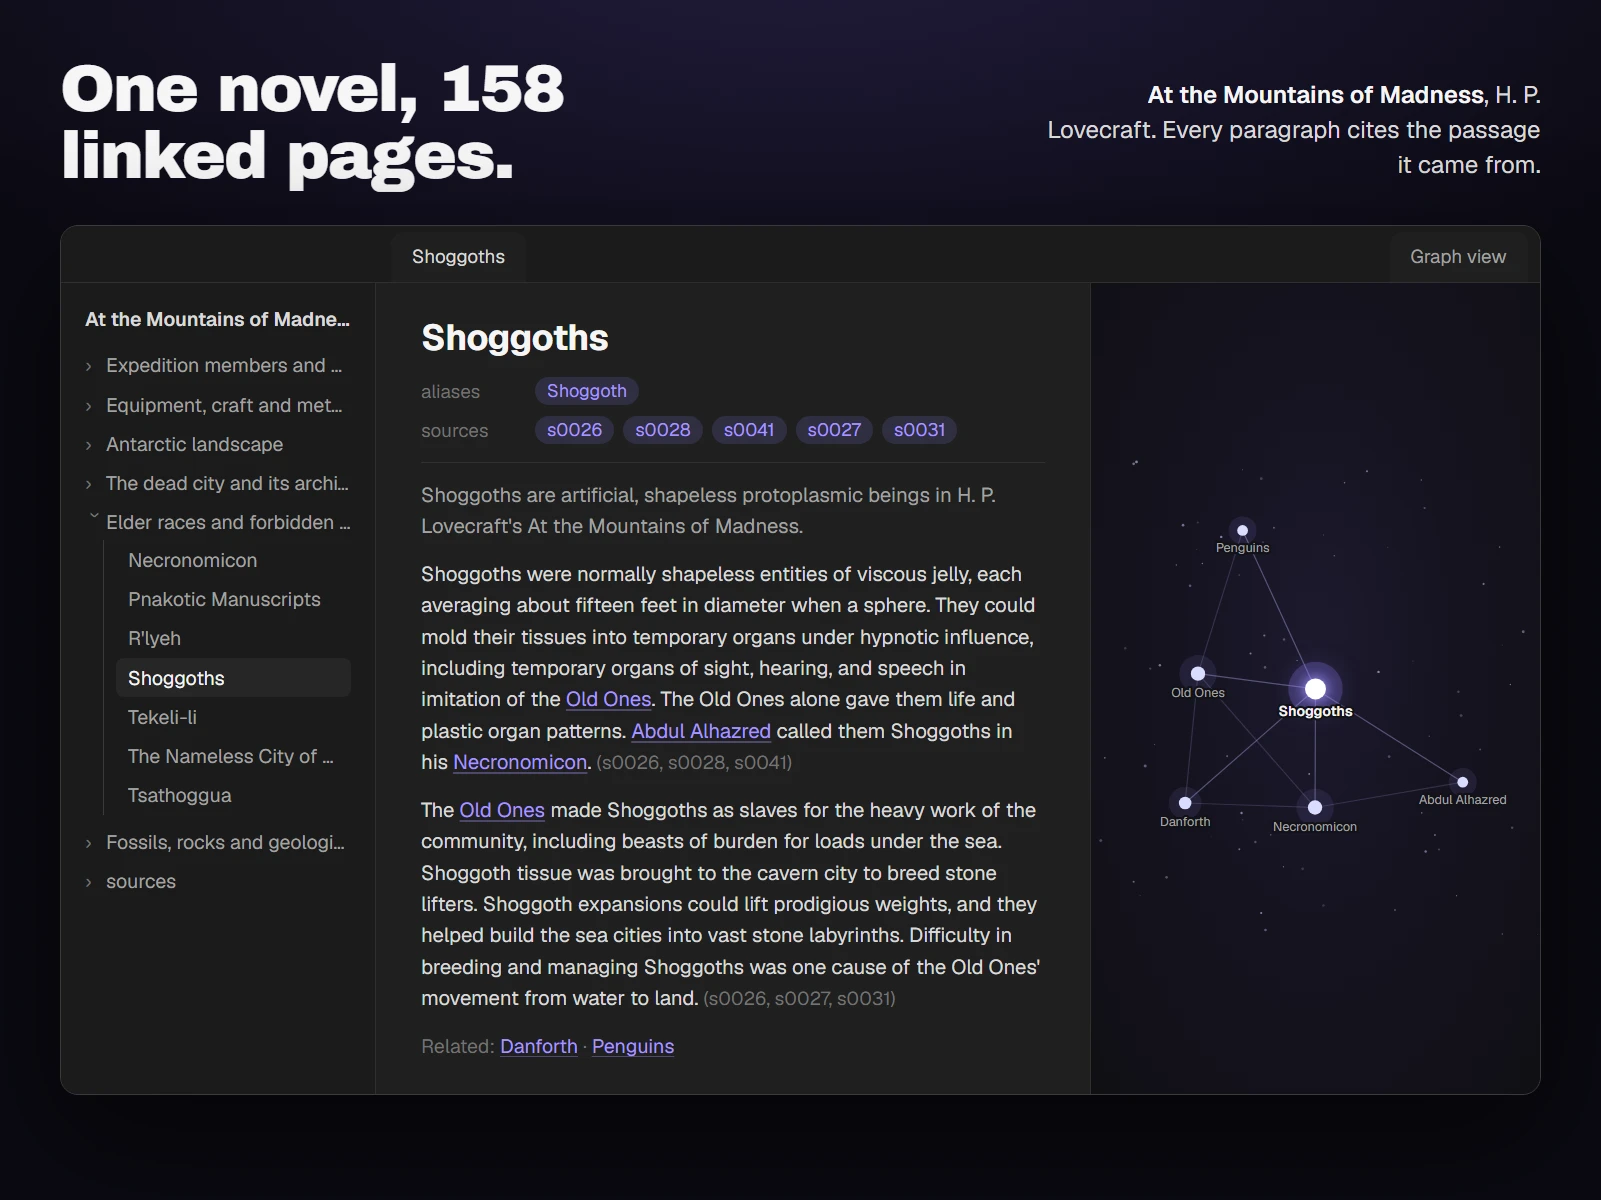
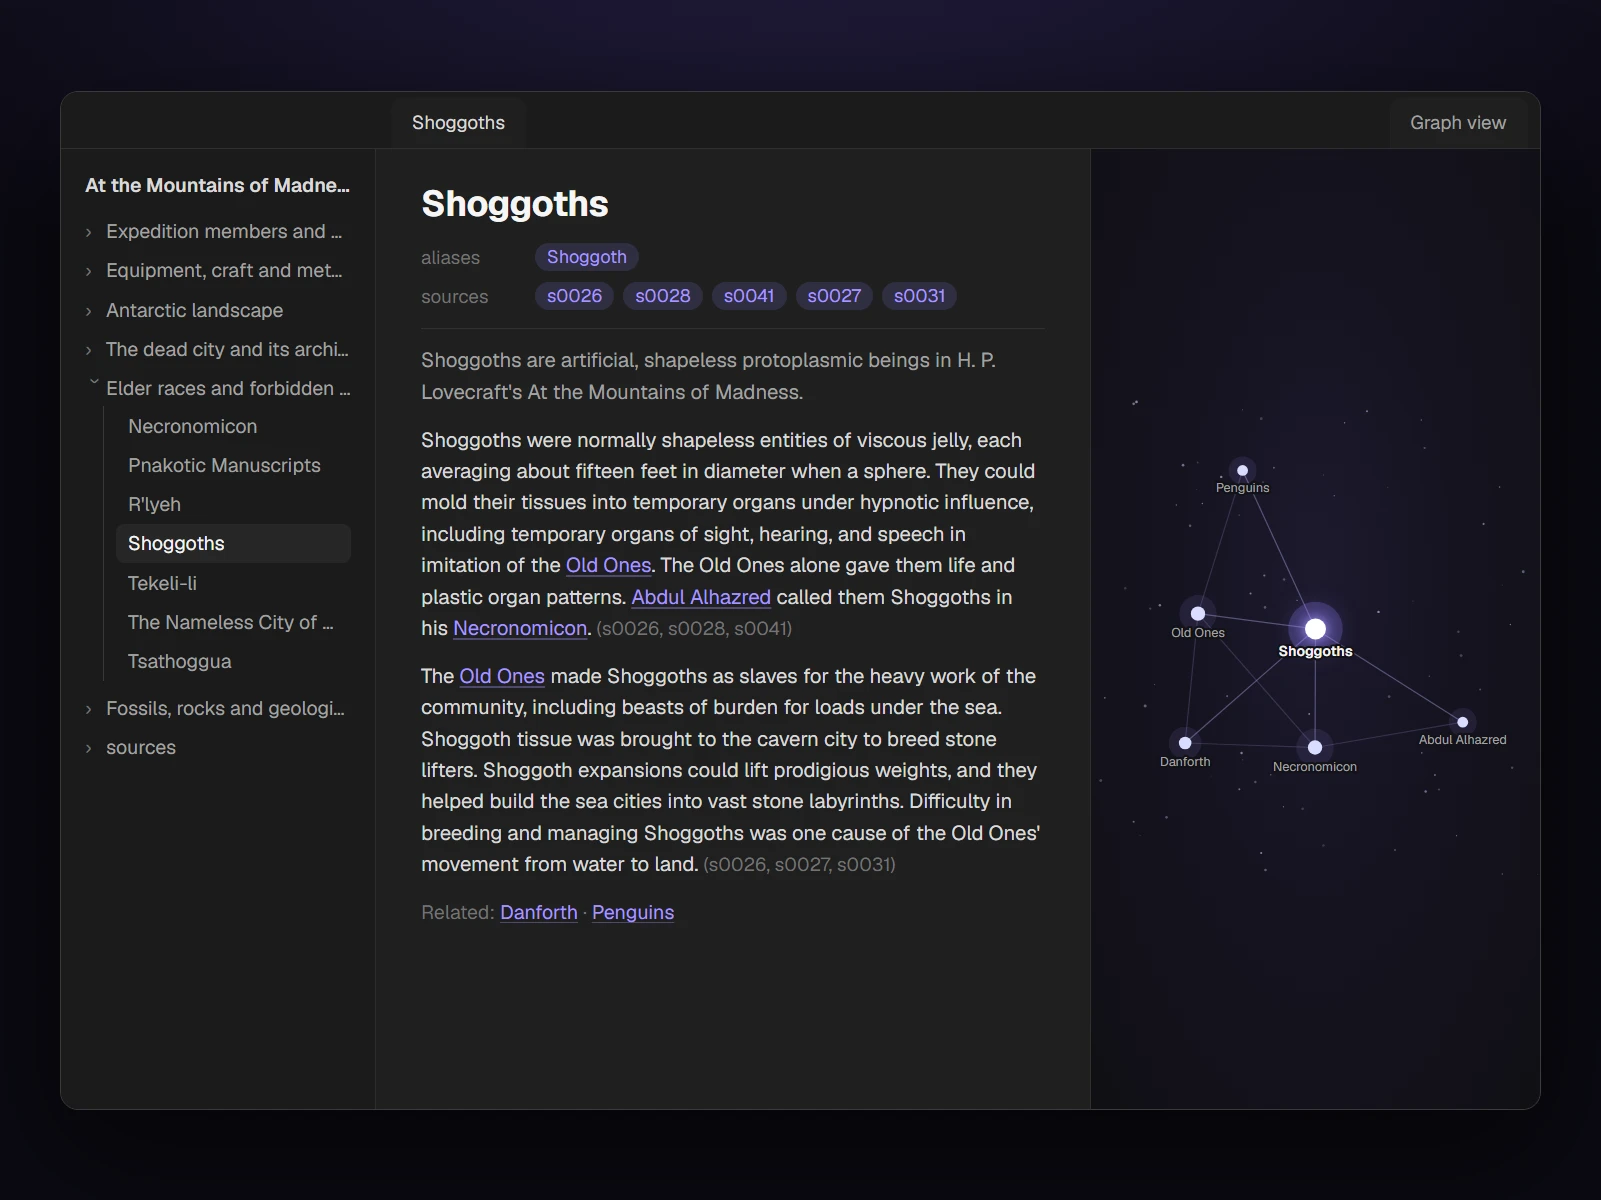
Vaultkeeper card: the image shows only the product, with no headline

diff --git a/tools.html b/tools.html
@@ -73,7 +73,7 @@
 </article></li>
 <li class="catalogue-card" id="vaultkeeper" data-filter="available">
 <article aria-labelledby="vaultkeeper-title">
-<figure class="catalogue-image"><img src="assets/tools/vaultkeeper.webp" width="1601" height="1200" alt="A wiki Vaultkeeper built from At the Mountains of Madness: the folder list, the Shoggoths page with its aliases, cited sources and links, and a star-map graph of the pages it links to. A heading reads: One novel, 158 linked pages" loading="lazy"></figure>
+<figure class="catalogue-image"><img src="assets/tools/vaultkeeper.webp" width="1601" height="1200" alt="A wiki Vaultkeeper built from At the Mountains of Madness: the folder list, the Shoggoths page with its aliases, cited sources and links, and a star-map graph of the pages it links to" loading="lazy"></figure>
 <div class="catalogue-copy"><div class="catalogue-meta"><span class="code">T-07</span><span class="status live"><i></i>Free · web app</span></div>
 <p class="label">Knowledge bases · runs in your browser</p><h2 id="vaultkeeper-title">Vaultkeeper</h2>
 <p class="catalogue-pitch">Turn any long text into a wiki.</p>
